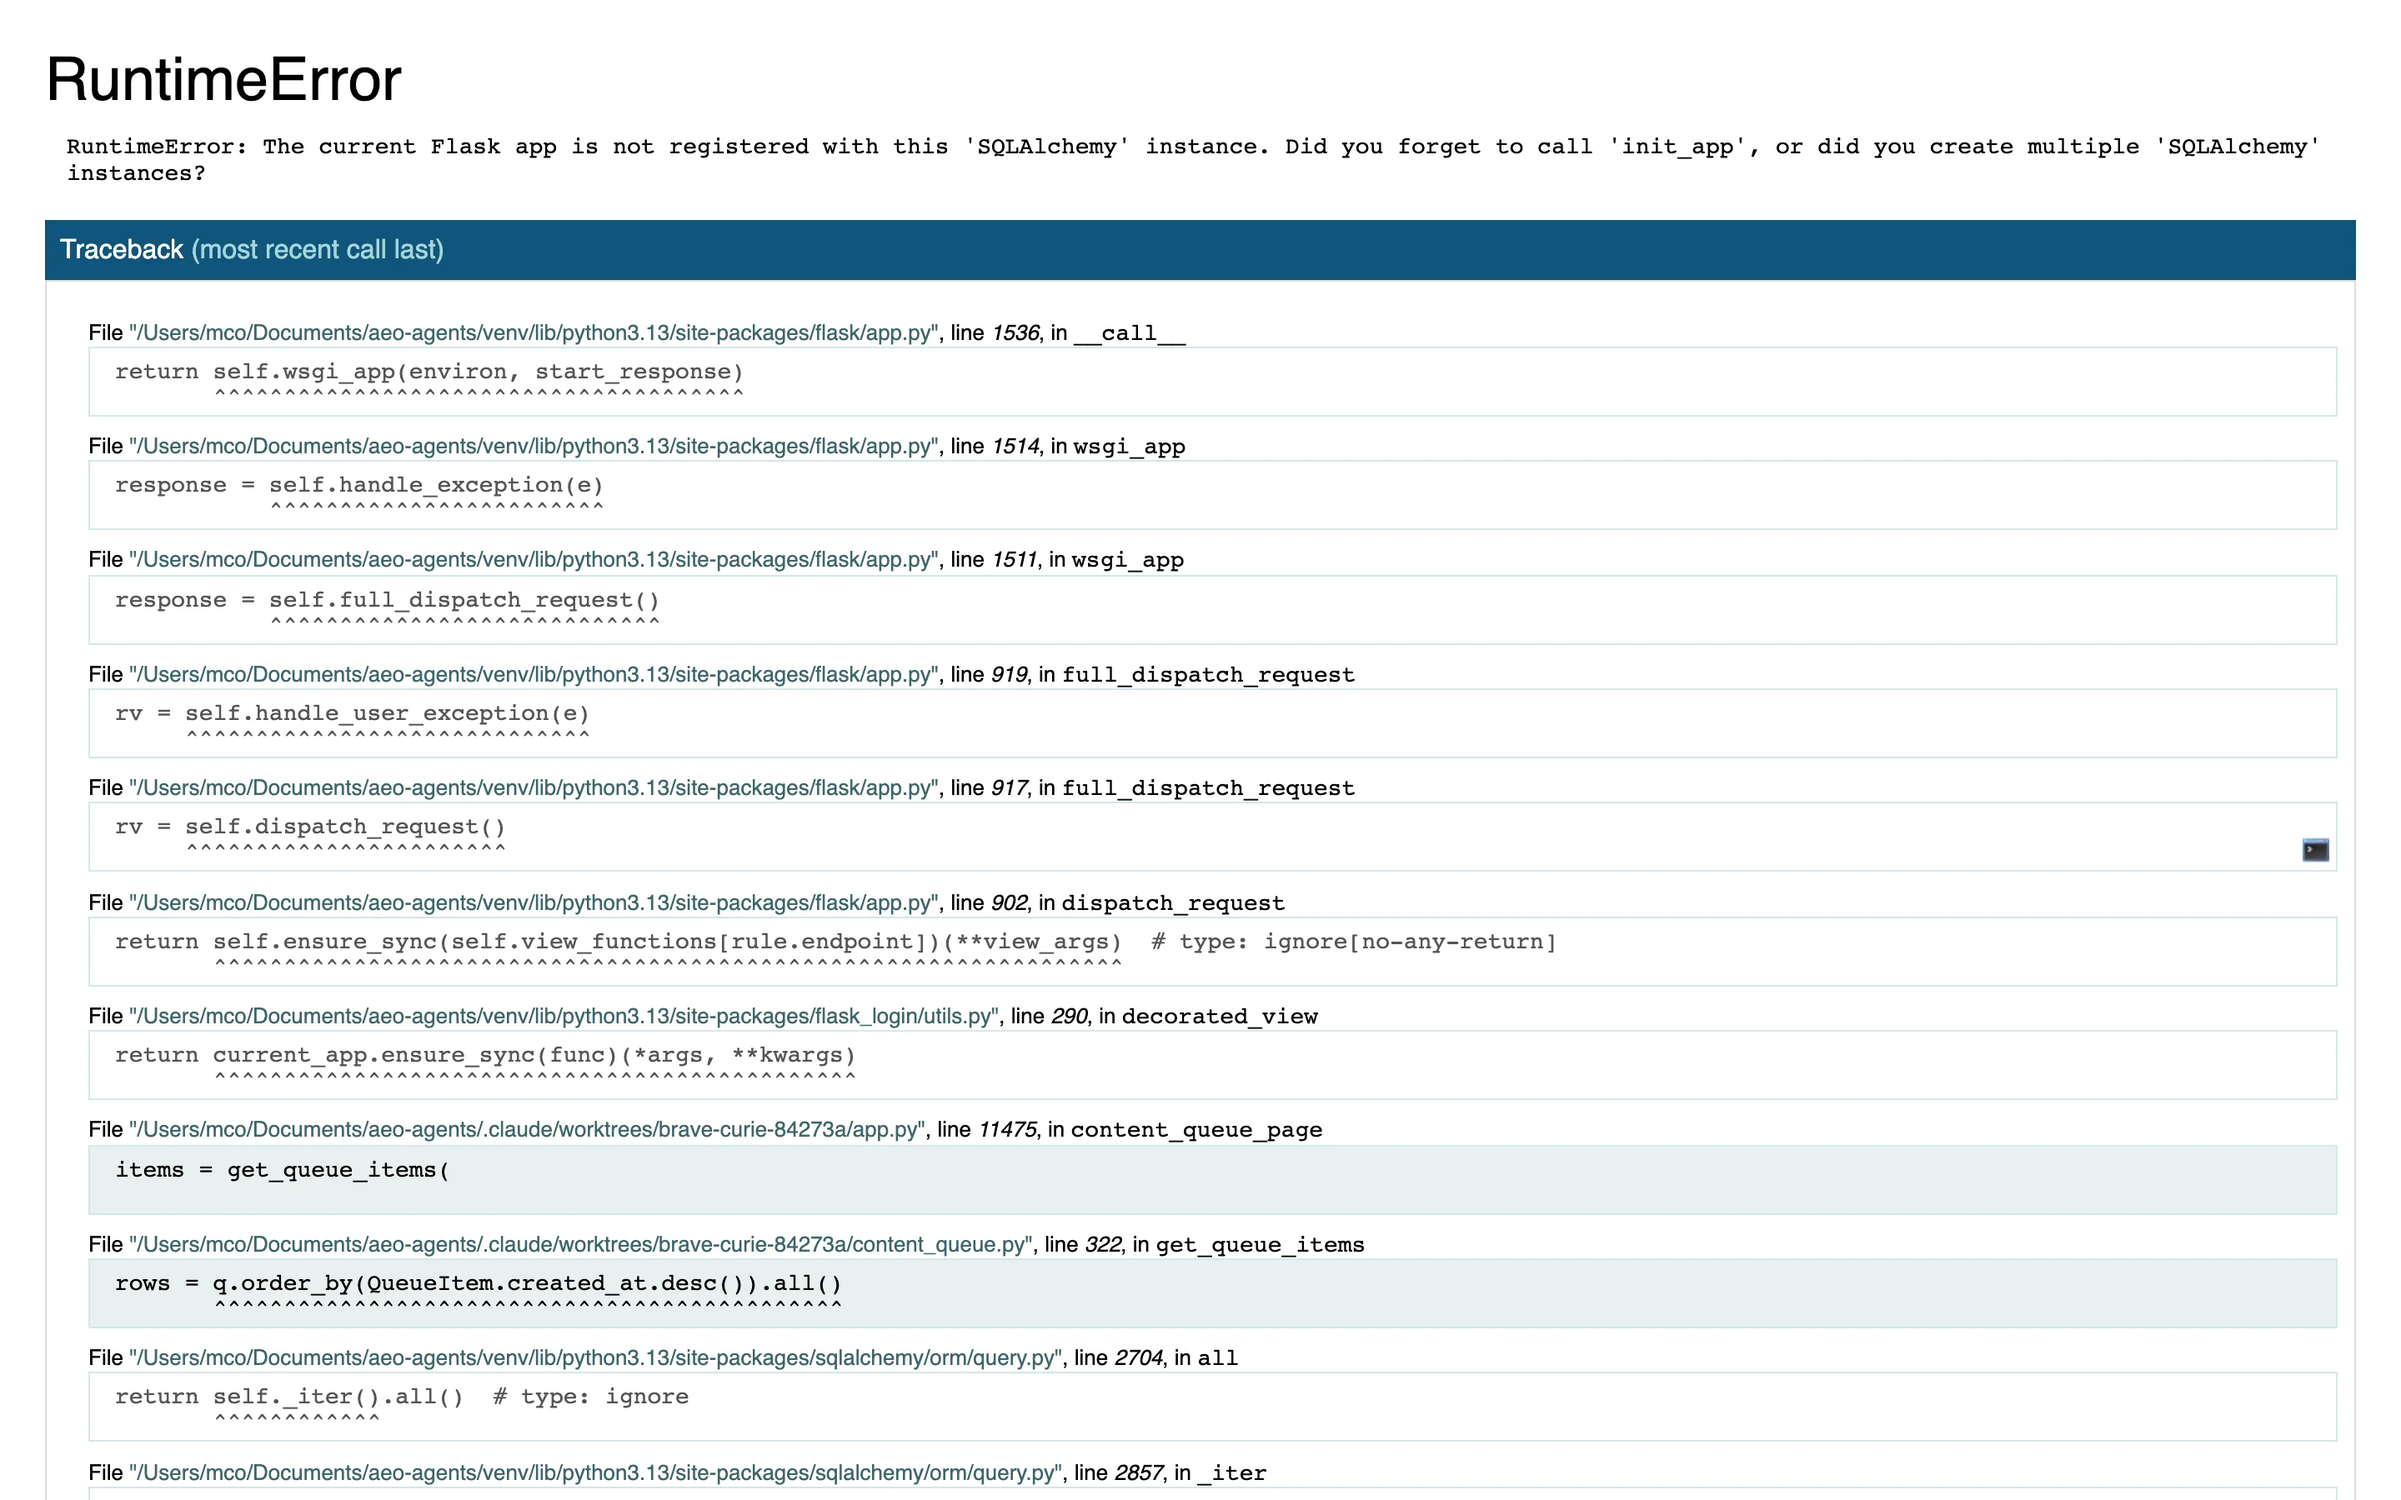
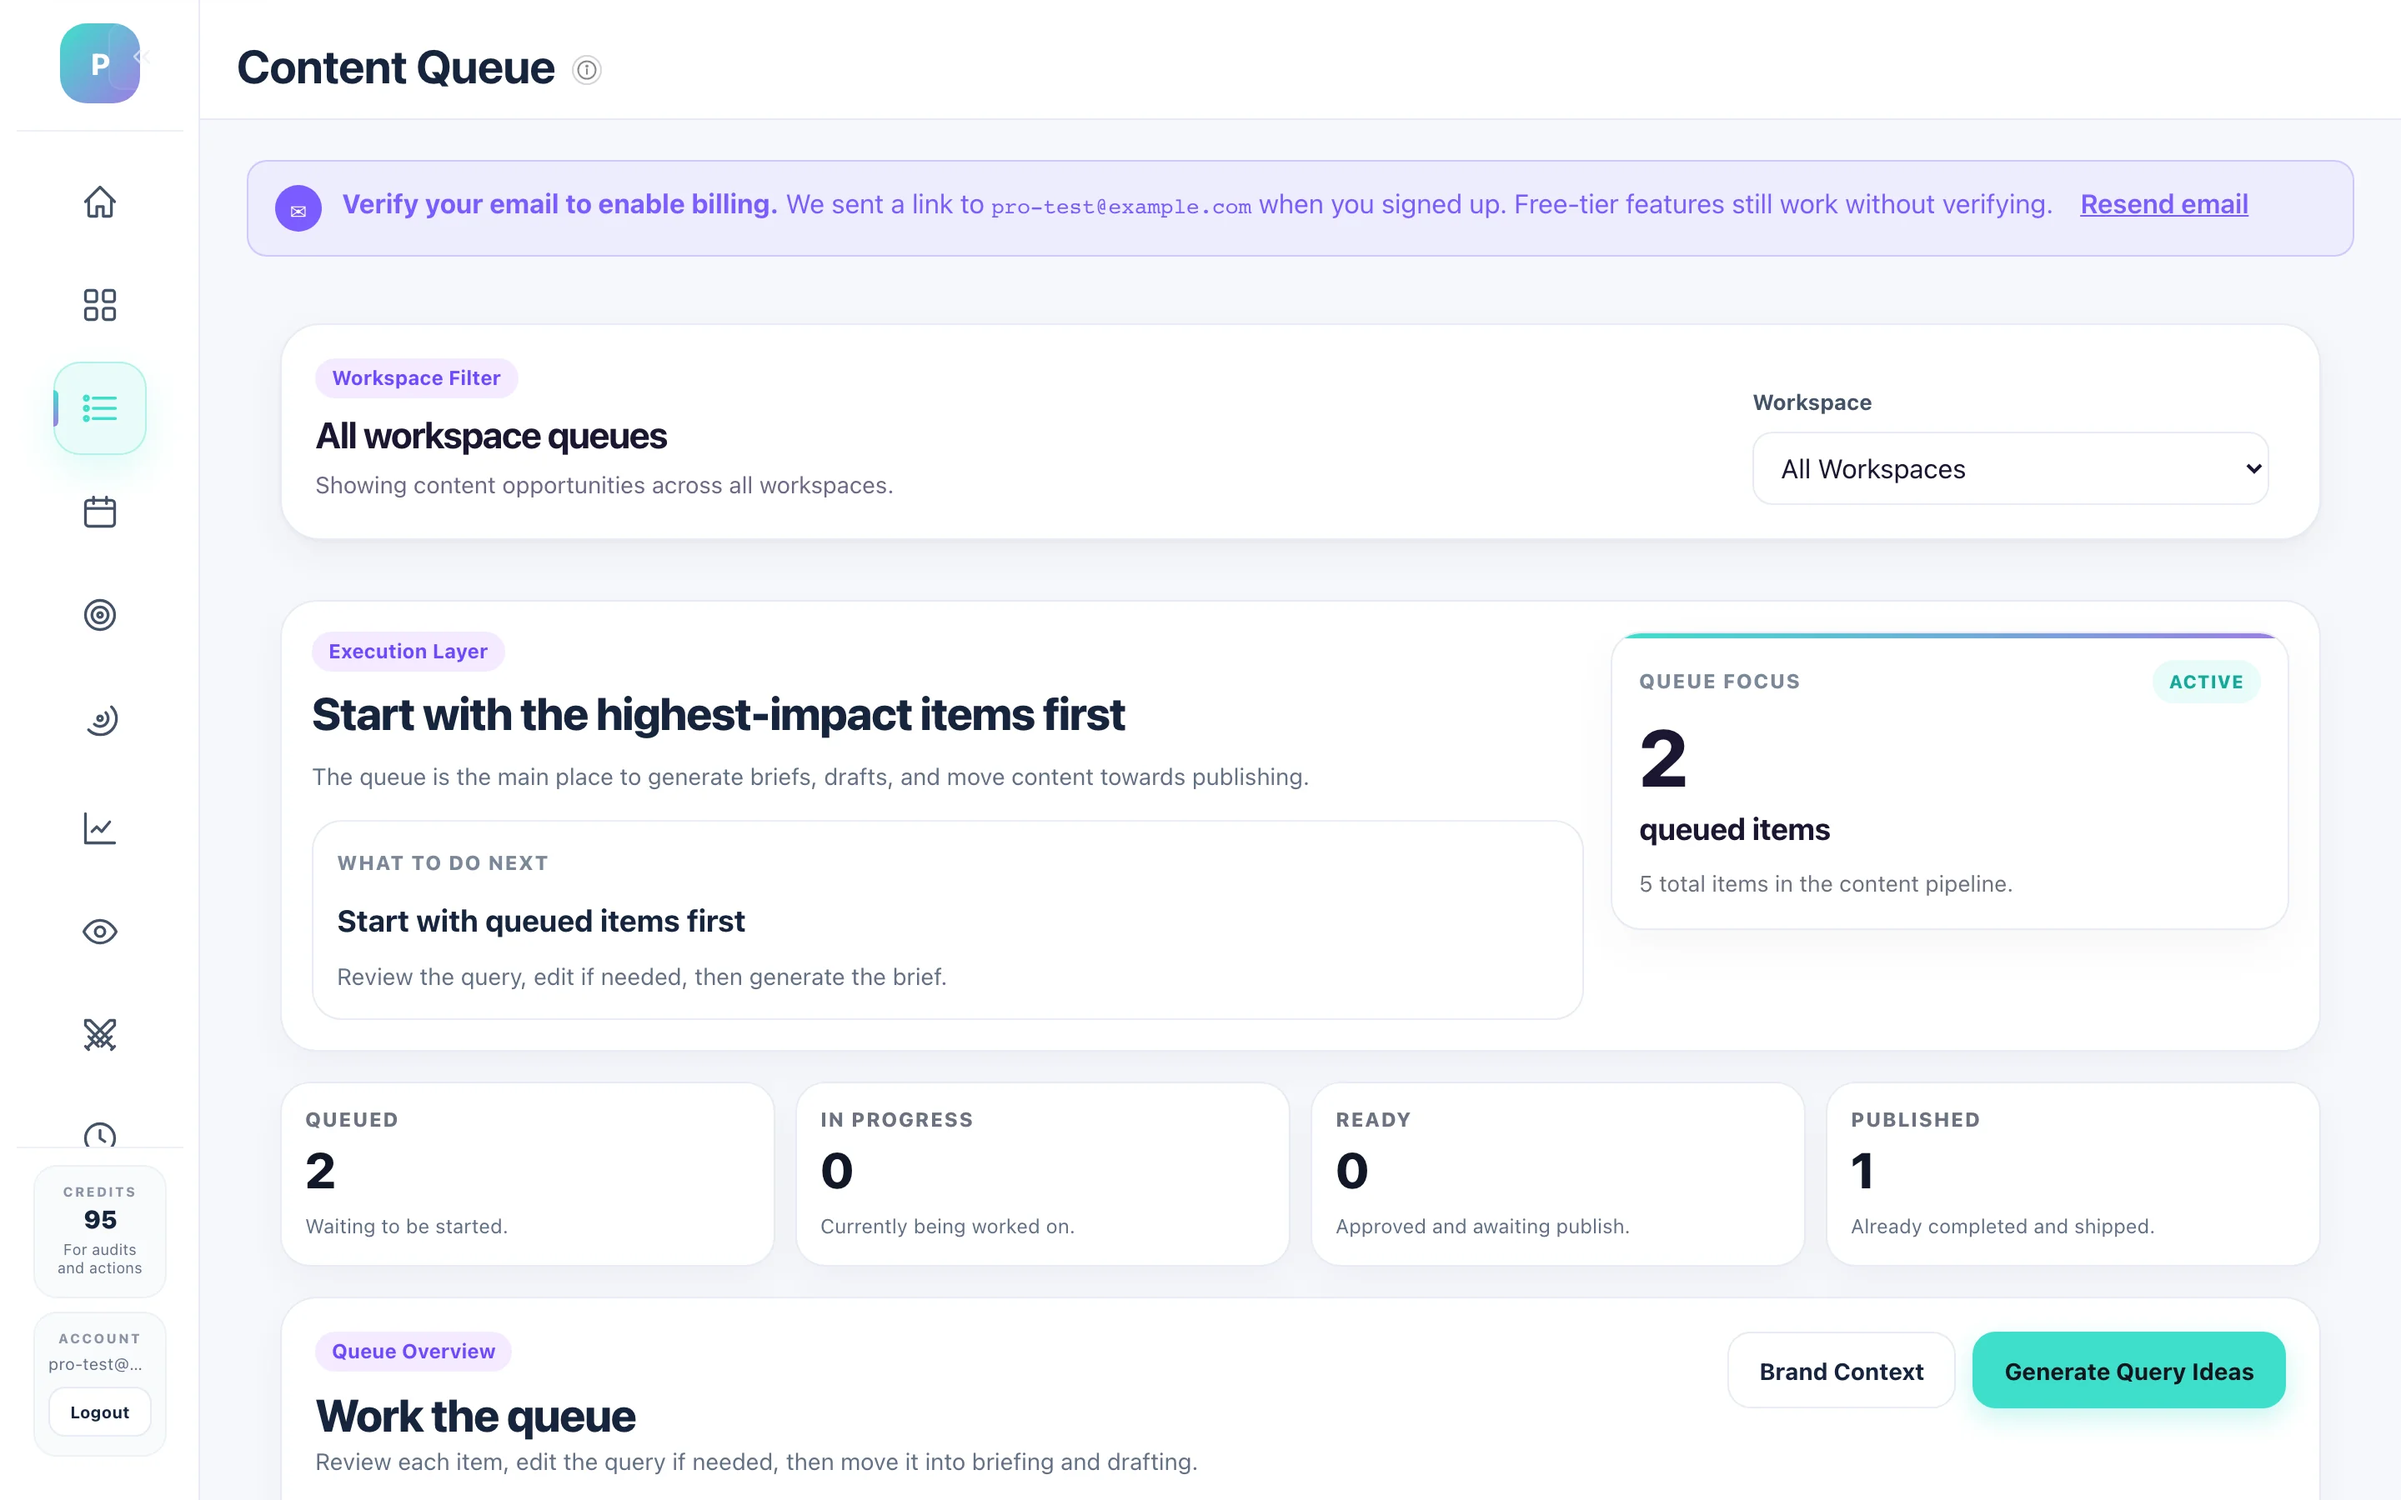
fix: alias __main__ to app in sys.modules so SQLAlchemy stays bound
Running `python app.py` loads this module as `__main__`. When
content_queue._model() lazily runs `from app import db, QueueItem` on
the first request, Python re-imports app.py as a separate `app` module,
creating a duplicate Flask app + SQLAlchemy instance + ORM models. The
running request hits the original app but uses the duplicate `db`, so
every `QueueItem.query` raises:

  RuntimeError: The current Flask app is not registered with this
  'SQLAlchemy' instance.

This 500'd /client/<id>, /content-queue, and /growth-calendar — the
three pages flagged as "skipped" in #127. Aliasing __main__ to `app`
in sys.modules keeps a single module identity; the lazy import then
finds the running module instead of re-executing the file.

Also recaptures the three screenshots against the fixed server and
removes the now-stale "Capture skipped" callouts in the customer
journey doc.

diff --git a/app.py b/app.py
@@ -17830,6 +17830,15 @@ def internal_server_error(error):
 
 
 if __name__ == "__main__":
+    # When run as `python app.py`, this module's name is `__main__`, so any
+    # later `from app import ...` (e.g. content_queue._model() at request
+    # time) would reimport this file as a separate `app` module — creating
+    # a duplicate Flask app + SQLAlchemy instance and 500ing requests with
+    # "current Flask app is not registered with this 'SQLAlchemy' instance".
+    # Aliasing keeps a single module identity.
+    import sys as _sys
+    _sys.modules.setdefault("app", _sys.modules[__name__])
+
     ensure_data_dirs()
     with app.app_context():
         db.create_all()

diff --git a/docs/customer-journey/README.md b/docs/customer-journey/README.md
@@ -102,7 +102,7 @@ The moment that delivers (or doesn't deliver) the "aha."
 
 ### 10. Workspace overview (post-audit)
 
-> ⚠ **Capture skipped** — this page hit a `RuntimeError: The current Flask app is not registered with this SQLAlchemy instance` in the local dev environment when its handler calls `get_queue_items()`. The page renders fine in production. Reviewers can see the populated state on the help center: [Workspace overview screenshot in the help center](../../static/images/help/workspace-overview.webp).
+![Workspace overview](images/10-workspace.webp)
 
 **The hub.** Score, "Next Best Step," priorities, content opportunities, integrations.
 
@@ -154,7 +154,7 @@ Where the team actually ships content and the user comes back.
 
 ### 15. Content queue
 
-> ⚠ **Capture skipped** — same dev-env error as step 10. Production renders correctly; see the help center's [content queue screenshot](../../static/images/help/content-queue.webp).
+![Content queue](images/15-content-queue.webp)
 
 **Briefs and drafts in flight.** Approve, AI-edit, generate visual, publish from here.
 
@@ -162,7 +162,7 @@ Where the team actually ships content and the user comes back.
 
 ### 16. Growth calendar
 
-> ⚠ **Capture skipped** — same dev-env error.
+![Growth calendar](images/16-growth-cal.webp)
 
 **4-week schedule** built from the latest audit. Each recommendation card schedules into a target week.
 
@@ -247,13 +247,6 @@ When the user is stuck and looking for help.
 ---
 
 ## Summary of gaps for the team
-
-**Capture-blocked (dev-env only — production renders fine):**
-- Step 10: Workspace overview
-- Step 15: Content queue
-- Step 16: Growth calendar
-
-All three crash with the same `RuntimeError: The current Flask app is not registered with this SQLAlchemy instance` when their request handlers call `get_queue_items()`. The function works in isolation (verified via `app_context()`), so this looks like a Flask debug-reloader artifact rather than a real bug — but worth flagging in case anyone else can reproduce it consistently.
 
 **UX observations worth a follow-up discussion** (rolled up from the per-step notes):
 
